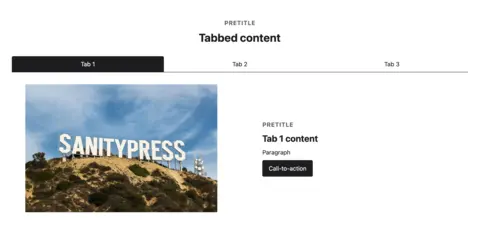
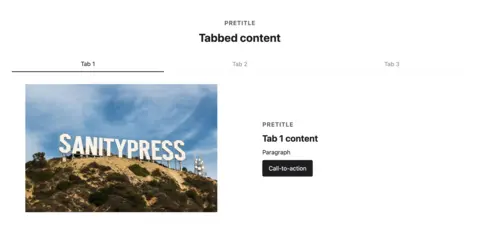
update tabbed-content style

Changed region(s): [[0.0, 0.2435, 0.9688, 0.3348], [0.3125, 0.7, 0.3438, 0.7304]]

diff --git a/src/ui/modules/TabbedContent/TabList.tsx b/src/ui/modules/TabbedContent/TabList.tsx
@@ -10,12 +10,14 @@ export default function TabList({
 	const { active, setActive } = tabbedContentStore()
 
 	return (
-		<nav className="max-md:full-bleed flex overflow-x-auto border-b border-accent">
+		<nav className="max-md:full-bleed no-scrollbar flex overflow-x-auto">
 			{tabs?.map((tab, key) => (
 				<button
 					className={cn(
-						'shrink-0 grow basis-[min(150px,80vw)] rounded-t p-2',
-						key === active && 'action rounded-b-none',
+						'shrink-0 grow basis-[min(150px,80vw)] rounded-t border-b p-2 transition-all',
+						key === active
+							? 'border-b-2 border-accent'
+							: 'text-ink/50 hover:text-ink',
 					)}
 					key={key}
 					onClick={() => setActive(key)}

diff --git a/src/ui/modules/TestimonialList.tsx b/src/ui/modules/TestimonialList.tsx
@@ -56,7 +56,7 @@ export default function TestimonialList({
 										<dt>{author?.name}</dt>
 
 										{author?.title && (
-											<dd className="text-balance text-sm">{author?.title}</dd>
+											<dd className="text-balance text-xs">{author?.title}</dd>
 										)}
 									</dl>
 								</div>
